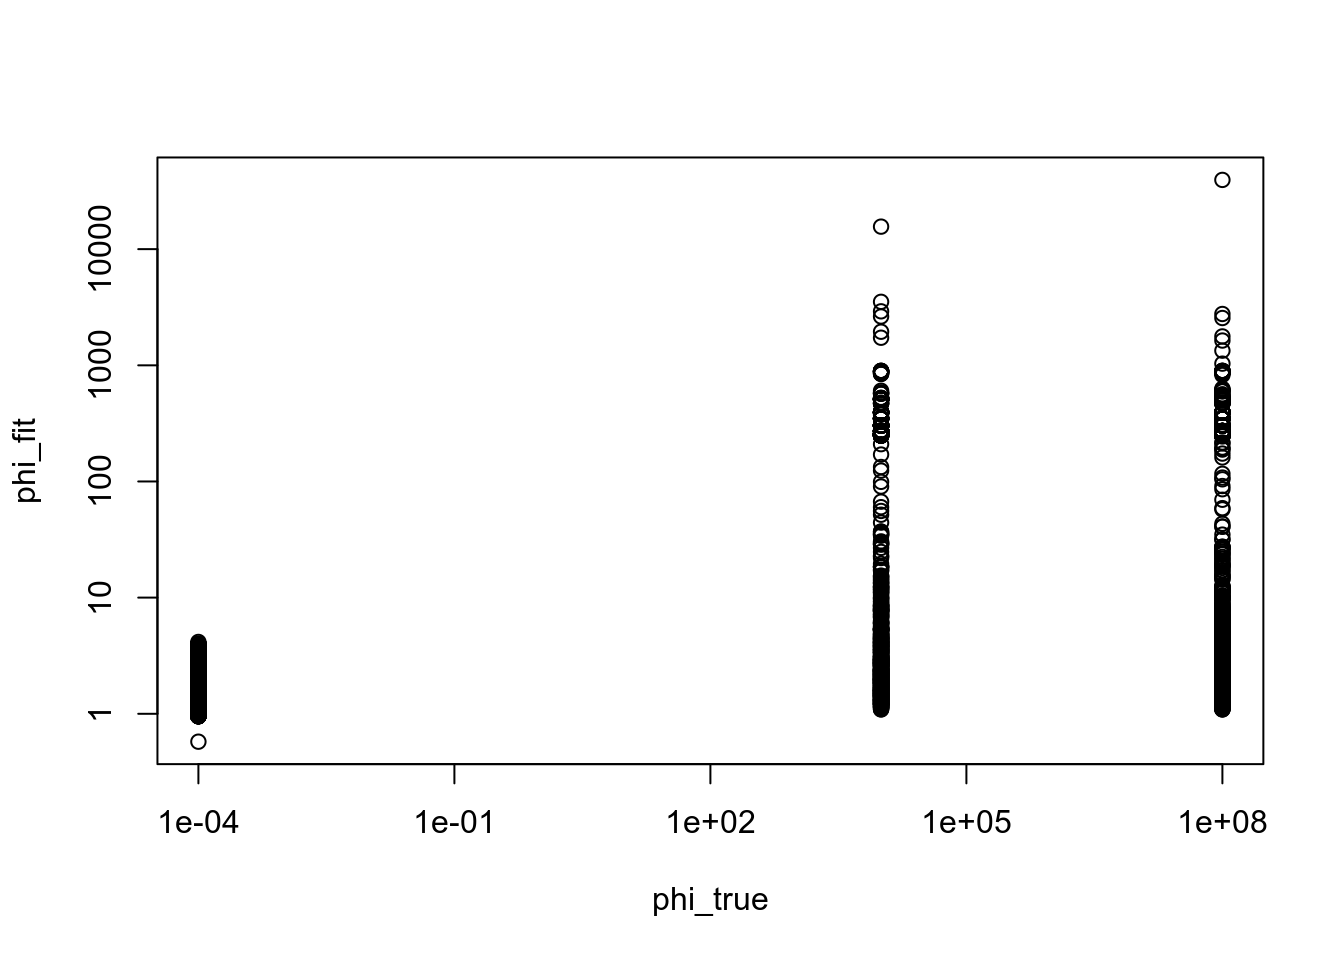
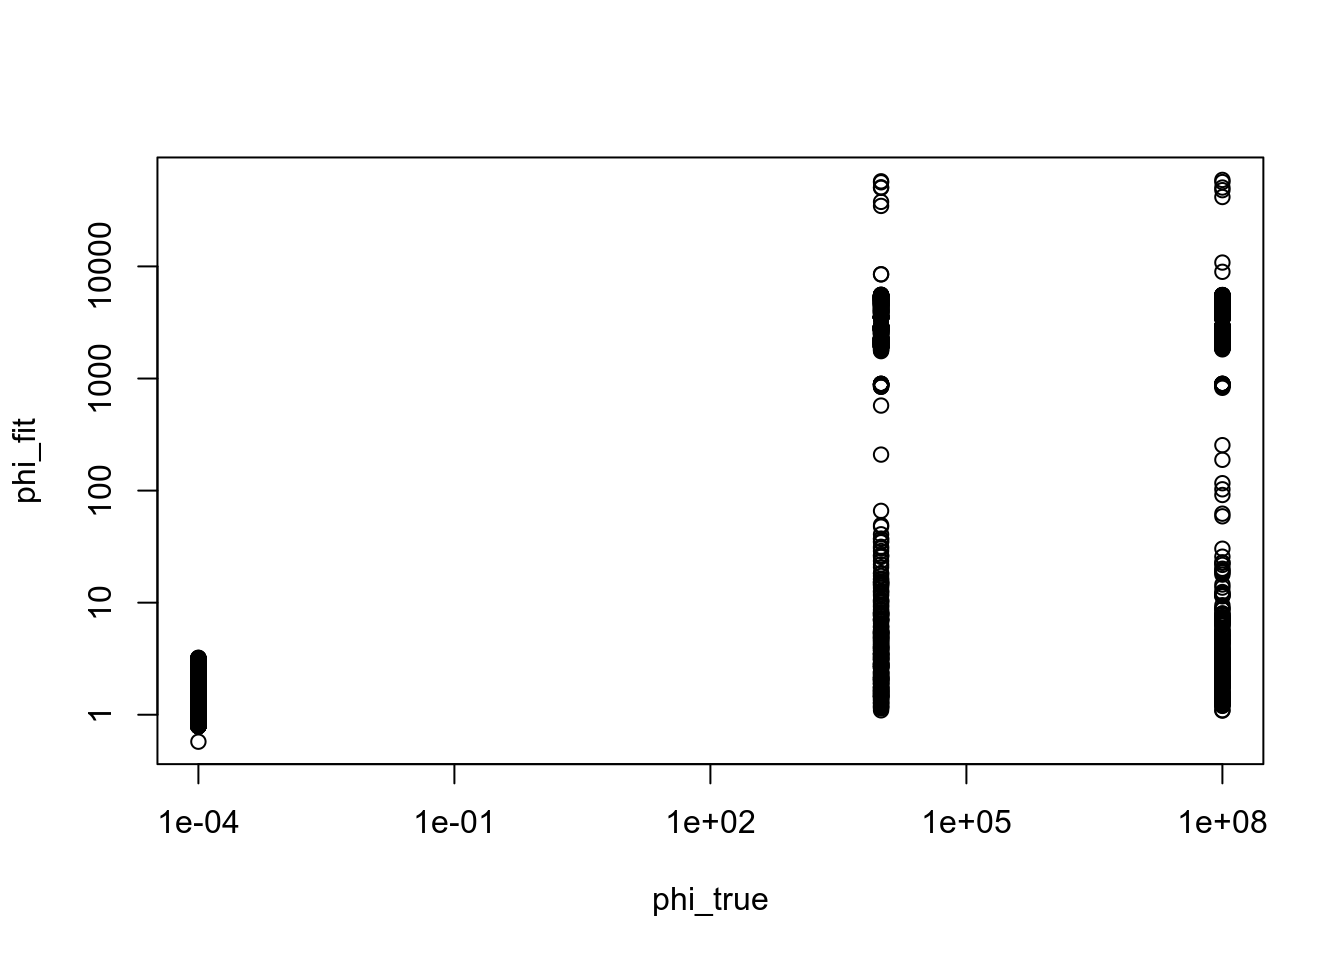
Build site.

diff --git a/docs/experiment_nb_means2.html b/docs/experiment_nb_means2.html
@@ -509,10 +509,10 @@ unnamed-chunk-3
 <div class="panel panel-default">
 <div class="panel-heading">
 <p class="panel-title">
-<a data-toggle="collapse" data-parent="#workflowr-checks" href="#strongRepositoryversionstrongahrefhttpsgithubcomzihao12ebpmfdemotree2860e8d1569eb69ca4b89d7c6db627f2829be3b4targetblank2860e8da"> <span class="glyphicon glyphicon-ok text-success" aria-hidden="true"></span> <strong>Repository version:</strong> <a href="https://github.com/zihao12/ebpmf_demo/tree/2860e8d1569eb69ca4b89d7c6db627f2829be3b4" target="_blank">2860e8d</a> </a>
+<a data-toggle="collapse" data-parent="#workflowr-checks" href="#strongRepositoryversionstrongahrefhttpsgithubcomzihao12ebpmfdemotreeef5ff2bea03fa9ae83a1b36de003e5755d4ddad7targetblankef5ff2ba"> <span class="glyphicon glyphicon-ok text-success" aria-hidden="true"></span> <strong>Repository version:</strong> <a href="https://github.com/zihao12/ebpmf_demo/tree/ef5ff2bea03fa9ae83a1b36de003e5755d4ddad7" target="_blank">ef5ff2b</a> </a>
 </p>
 </div>
[2 lines of base64/hex data omitted]
 <div class="panel-body">
 <p>
 Great! You are using Git for version control. Tracking code development and connecting the code version to the results is critical for reproducibility. The version displayed above was the version of the Git repository at the time these results were generated. <br><br> Note that you need to be careful to ensure that all relevant files for the analysis have been committed to Git prior to generating the results (you can use <code>wflow_publish</code> or <code>wflow_git_commit</code>). workflowr only checks the R Markdown file, but you know if there are other scripts or data files that it depends on. Below is the status of the Git repository when the results were generated:
@@ -528,9 +528,9 @@ Untracked files:
     Untracked:  analysis/demo_sparse_ebpmf_two_gamma_cache/
     Untracked:  analysis/ebpm_two_gamma_speed.Rmd
     Untracked:  analysis/experiment_ebpm_gammamix3_cache/
-    Untracked:  analysis/experiment_nb_means2_cache/html/unnamed-chunk-3_f95ee93cf43bbddef23904921d596f3f.RData
-    Untracked:  analysis/experiment_nb_means2_cache/html/unnamed-chunk-3_f95ee93cf43bbddef23904921d596f3f.rdb
-    Untracked:  analysis/experiment_nb_means2_cache/html/unnamed-chunk-3_f95ee93cf43bbddef23904921d596f3f.rdx
+    Untracked:  analysis/experiment_nb_means2_cache/html/unnamed-chunk-3_cfe650693b4c88dfb9fec66c180f5196.RData
+    Untracked:  analysis/experiment_nb_means2_cache/html/unnamed-chunk-3_cfe650693b4c88dfb9fec66c180f5196.rdb
+    Untracked:  analysis/experiment_nb_means2_cache/html/unnamed-chunk-3_cfe650693b4c88dfb9fec66c180f5196.rdx
     Untracked:  analysis/experiment_nb_means_cache_0/
     Untracked:  analysis/fast_mle_nb.Rmd
     Untracked:  analysis/fast_weighted_nb.Rmd
@@ -601,6 +601,40 @@ Message
 </tr>
 </thead>
 <tbody>
+<tr>
+<td>
+Rmd
+</td>
+<td>
+<a href="https://github.com/zihao12/ebpmf_demo/blob/ef5ff2bea03fa9ae83a1b36de003e5755d4ddad7/analysis/experiment_nb_means2.Rmd" target="_blank">ef5ff2b</a>
+</td>
+<td>
+zihao12
+</td>
+<td>
+2020-04-03
+</td>
+<td>
+add starting from truth
+</td>
+</tr>
+<tr>
+<td>
+html
+</td>
+<td>
+<a href="https://rawcdn.githack.com/zihao12/ebpmf_demo/4a92db48f852ce9c15bba33520dc9beef1d9f3dd/docs/experiment_nb_means2.html" target="_blank">4a92db4</a>
+</td>
+<td>
+zihao12
+</td>
+<td>
+2020-04-03
+</td>
+<td>
+Build site.
+</td>
+</tr>
 <tr>
 <td>
 Rmd
@@ -1143,7 +1177,7 @@ set.seed(123)</code></pre>
 <!-- ```{r cache=TRUE, autodep=TRUE, message=FALSE, warning=FALSE} -->
 <!-- exper <- exper_nb_means(K = 10, p = 99, maxiter = 100, verbose = FALSE) -->
 <!-- ``` -->
-<pre class="r"><code>exper &lt;- exper_nb_means(K = 10, p = 999, maxiter = 101, verbose = FALSE)</code></pre>
+<pre class="r"><code>exper &lt;- exper_nb_means(K = 10, p = 999, maxiter = 10000, verbose = FALSE)</code></pre>
 <ul>
 <li>There are optimization issues when initializing from truth, or running too many iterations …</li>
 </ul>
@@ -1184,6 +1218,17 @@ Date
 </tr>
 </thead>
 <tbody>
+<tr>
+<td>
+<a href="https://github.com/zihao12/ebpmf_demo/blob/4a92db48f852ce9c15bba33520dc9beef1d9f3dd/docs/figure/experiment_nb_means2.Rmd/unnamed-chunk-4-1.png" target="_blank">4a92db4</a>
+</td>
+<td>
+zihao12
+</td>
+<td>
+2020-04-03
+</td>
+</tr>
 <tr>
 <td>
 <a href="https://github.com/zihao12/ebpmf_demo/blob/1a855a09cd8ac129edffdf656c38c3f7d6fda5a2/docs/figure/experiment_nb_means2.Rmd/unnamed-chunk-4-1.png" target="_blank">1a855a0</a>
@@ -1318,6 +1363,17 @@ Date
 <tbody>
 <tr>
 <td>
+<a href="https://github.com/zihao12/ebpmf_demo/blob/4a92db48f852ce9c15bba33520dc9beef1d9f3dd/docs/figure/experiment_nb_means2.Rmd/unnamed-chunk-5-1.png" target="_blank">4a92db4</a>
+</td>
+<td>
+zihao12
+</td>
+<td>
+2020-04-03
+</td>
+</tr>
+<tr>
+<td>
 <a href="https://github.com/zihao12/ebpmf_demo/blob/f05ed4a1e5ae7b04f7181450a2adac9b9f6d2d4b/docs/figure/experiment_nb_means2.Rmd/unnamed-chunk-5-1.png" target="_blank">f05ed4a</a>
 </td>
 <td>
@@ -1447,6 +1503,17 @@ Date
 </tr>
 </thead>
 <tbody>
+<tr>
+<td>
+<a href="https://github.com/zihao12/ebpmf_demo/blob/4a92db48f852ce9c15bba33520dc9beef1d9f3dd/docs/figure/experiment_nb_means2.Rmd/unnamed-chunk-6-1.png" target="_blank">4a92db4</a>
+</td>
+<td>
+zihao12
+</td>
+<td>
+2020-04-03
+</td>
+</tr>
 <tr>
 <td>
 <a href="https://github.com/zihao12/ebpmf_demo/blob/f05ed4a1e5ae7b04f7181450a2adac9b9f6d2d4b/docs/figure/experiment_nb_means2.Rmd/unnamed-chunk-6-1.png" target="_blank">f05ed4a</a>
